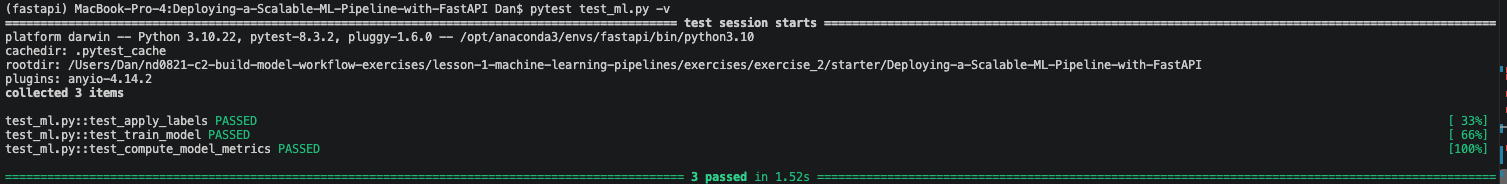
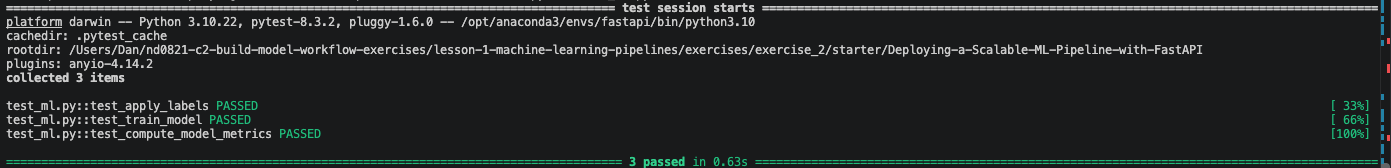
edits from reviewer

diff --git a/ml/model.py b/ml/model.py
@@ -4,6 +4,8 @@ from ml.data import process_data
 from sklearn.ensemble import RandomForestClassifier
 
 # Optional: implement hyperparameter tuning.
+
+
 def train_model(X_train, y_train):
     """
     Trains a machine learning model and returns it.
@@ -22,7 +24,6 @@ def train_model(X_train, y_train):
     model = RandomForestClassifier()
     model.fit(X_train, y_train)
     return model
-    
 
 
 def compute_model_metrics(y, preds):
@@ -64,6 +65,7 @@ def inference(model, X):
     preds = model.predict(X)
     return preds
 
+
 def save_model(model, path):
     """ Serializes model to a file.
 
@@ -77,12 +79,12 @@ def save_model(model, path):
     with open(path, "wb") as file:
         pickle.dump(model, file)
 
+
 def load_model(path):
     """ Loads pickle file from `path` and returns it."""
     with open(path, "rb") as file:
         model = pickle.load(file)
     return model
-   
 
 
 def performance_on_categorical_slice(

diff --git a/main.py b/main.py
@@ -1,5 +1,3 @@
-import os
-
 import pandas as pd
 from fastapi import FastAPI
 from pydantic import BaseModel, Field
@@ -8,6 +6,8 @@ from ml.data import apply_label, process_data
 from ml.model import inference, load_model
 
 # DO NOT MODIFY
+
+
 class Data(BaseModel):
     age: int = Field(..., example=37)
     workclass: str = Field(..., example="Private")
@@ -26,6 +26,7 @@ class Data(BaseModel):
     hours_per_week: int = Field(..., example=40, alias="hours-per-week")
     native_country: str = Field(..., example="United-States", alias="native-country")
 
+
 path = "model/encoder.pkl"
 encoder = load_model(path)
 
@@ -33,6 +34,7 @@ path = "model/model.pkl"
 model = load_model(path)
 
 app = FastAPI()
+
 
 @app.get("/")
 async def get_root():

diff --git a/test_ml.py b/test_ml.py
@@ -1,6 +1,5 @@
-import pytest
+
 import numpy as np
-from sklearn.ensemble import RandomForestClassifier
 from ml.data import apply_label
 from ml.model import train_model, compute_model_metrics
 
@@ -11,6 +10,7 @@ def test_apply_labels():
     """
     assert apply_label([1]) == ">50K"
     assert apply_label([0]) == "<=50K"
+
 
 def test_train_model():
     """
@@ -29,6 +29,6 @@ def test_compute_model_metrics():
     y = np.array([0, 0, 1, 1])
     preds = np.array([1, 0, 0, 0])
     precision, recall, f1 = compute_model_metrics(y, preds)
-    assert precision is not None
-    assert recall is not None
-    assert f1 is not None
+    assert precision == 0.0
+    assert recall == 0.0
+    assert f1 == 0.0

diff --git a/train_model.py b/train_model.py
@@ -13,7 +13,11 @@ from ml.model import (
     train_model,
 )
 
-project_path = "/Users/Dan/nd0821-c2-build-model-workflow-exercises/lesson-1-machine-learning-pipelines/exercises/exercise_2/starter/Deploying-a-Scalable-ML-Pipeline-with-FastAPI"
+project_path = (
+    "/Users/Dan/nd0821-c2-build-model-workflow-exercises/"
+    "lesson-1-machine-learning-pipelines/exercises/exercise_2/"
+    "starter/Deploying-a-Scalable-ML-Pipeline-with-FastAPI"
+)
 data_path = os.path.join(project_path, "data", "census.csv")
 print(data_path)
 data = pd.read_csv(data_path)
@@ -62,7 +66,7 @@ save_model(encoder, encoder_path)
 # load the model
 model = load_model(
     model_path
-) 
+)
 
 preds = inference(model, X_test)
 

diff --git a/ml/data.py b/ml/data.py
@@ -69,6 +69,7 @@ def process_data(
     X = np.concatenate([X_continuous, X_categorical], axis=1)
     return X, y, encoder, lb
 
+
 def apply_label(inference):
     """ Convert the binary label in a single inference sample into string output."""
     if inference[0] == 1:

diff --git a/local_api.py b/local_api.py
@@ -1,5 +1,3 @@
-import json
-
 import requests
 
 r = requests.get("http://127.0.0.1:8000")
